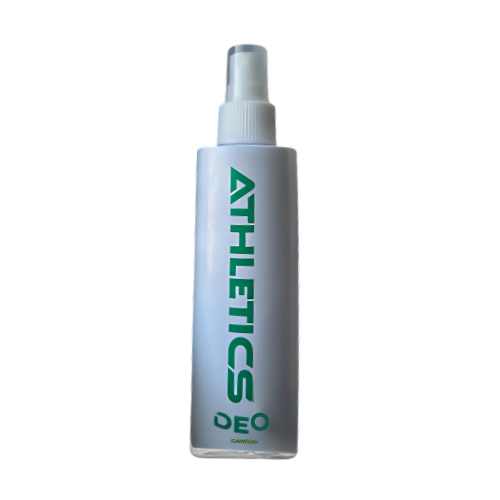
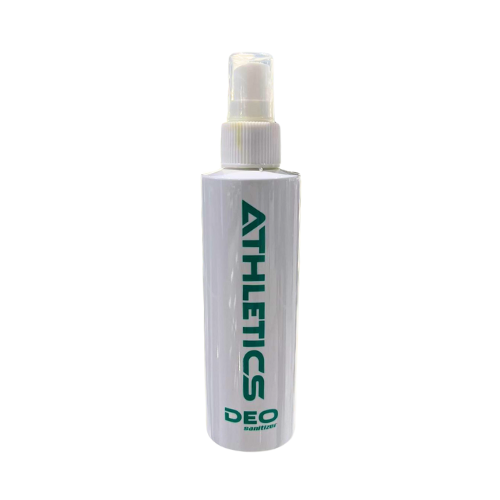
navbar responsive

Changed region(s): [[0.36, 0.09, 0.6, 0.93]]

diff --git a/index.html b/index.html
@@ -247,7 +247,7 @@ padding-top:10%;
 }
 .floating-div img{
 left:0;
-top:20% !important;
+top:3rem !important;
 }
 
 .image-show img {
@@ -272,15 +272,12 @@ margin-top:10%;
             </div>
         </div>
         <div class="grid1 ">
-            <nav class="container">
-                
+            <nav class="container" id="desktop-nav">
                 <a href="index.html" class="logo">
                     <img src="./images/icons/mainlogo.png" alt="IMG-LOGO">
                 </a>
                 <div class="">
                     <ul class="main-menu ">
-                        
-
                         <li>
                             <a class=" menu-item" href="index.html">HOME</a>
                         </li>
@@ -309,9 +306,6 @@ margin-top:10%;
                           <button type="button" class="btn-close text-reset" data-bs-dismiss="offcanvas" aria-label="Close"></button>
                         </div>
                         <div class="offcanvas-body">
-                          <!-- <hr id="dropdown-divider" class="dropdown-divider">
-                          <a id='viewCartLink'class="" href="cart.html">View Cart</a>
-                          <a id='checkoutLink'class="" href="checkout.html">Proceed to Checkout</a> -->
                         </div>
                         <div id="cart-buttons-container" style="">
                             <a href="cart.html" class="btn view-cart-button">View Cart</a>
@@ -319,9 +313,54 @@ margin-top:10%;
                           </div>
                     </div>
                 </div>
-
-
             </nav>
+
+            <nav class="navbar navbar-dark bg-dark fixed-top" id="ipad-mobile-view">
+                <div class="container-fluid">
+                  <button class="navbar-toggler" type="button" data-bs-toggle="offcanvas" data-bs-target="#offcanvasDarkNavbar" aria-controls="offcanvasDarkNavbar" aria-label="Toggle navigation">
+                    <span class="navbar-toggler-icon"></span>
+                  </button>
+                  <div class="offcanvas offcanvas-start text-bg-dark" tabindex="-1" id="offcanvasDarkNavbar" aria-labelledby="offcanvasDarkNavbarLabel">
+                    <div class="offcanvas-body">
+                      <ul class="navbar-nav justify-content-end flex-grow-1 pe-3">
+                        <li class="nav-item">
+                          <a class="nav-link active" aria-current="page" href="index.html">HOME</a>
+                        </li>
+                        <li class="nav-item">
+                          <a class="nav-link" href="shop.html">SHOP</a>
+                        </li>
+                        <li class="nav-item">
+                          <a class="nav-link" href="about.html">ABOUT</a>
+                        </li>
+                        <li class="nav-item">
+                          <a class="nav-link"  href="contact.html">CONTACT</a>
+                        </li>
+                      </ul>
+                    </div>
+                  </div>
+                  <a class="navbar-brand logo" href="./index.html"><img src="./images/icons/mainlogo.png" alt="IMG-LOGO"></a>
+                  <div class="cart">
+                    <button id="cartIcon"  type="button" data-bs-toggle="offcanvas" data-bs-target="#offcanvasRight" aria-controls="offcanvasRight">
+                        <svg xmlns="http://www.w3.org/2000/svg" width="24" height="24" fill="black" class="bi bi-cart3" viewBox="0 0 16 16">
+                            <path d="M0 1.5A.5.5 0 0 1 .5 1H2a.5.5 0 0 1 .485.379L2.89 3H14.5a.5.5 0 0 1 .49.598l-1 5a.5.5 0 0 1-.465.401l-9.397.472L4.415 11H13a.5.5 0 0 1 0 1H4a.5.5 0 0 1-.491-.408L2.01 3.607 1.61 2H.5a.5.5 0 0 1-.5-.5M3.102 4l.84 4.479 9.144-.459L13.89 4zM5 12a2 2 0 1 0 0 4 2 2 0 0 0 0-4m7 0a2 2 0 1 0 0 4 2 2 0 0 0 0-4m-7 1a1 1 0 1 1 0 2 1 1 0 0 1 0-2m7 0a1 1 0 1 1 0 2 1 1 0 0 1 0-2"/>
+                          </svg>
+                        <span class="badge position-absolute top-0 start-100 translate-middle badge rounded-pill " id="cartItemCount" >0</span>
+                    </button>
+                    <div class="offcanvas offcanvas-end " data-bs-scroll="true"  tabindex="-1" id="offcanvasRight" aria-labelledby="offcanvasRightLabel">
+                        <div class="offcanvas-header">
+                          <h5 id="offcanvasRightLabel">Cart</h5>
+                          <button type="button" class="btn-close text-reset" data-bs-dismiss="offcanvas" aria-label="Close"></button>
+                        </div>
+                        <div class="offcanvas-body">
+                        </div>
+                        <div id="cart-buttons-container" style="">
+                            <a href="cart.html" class="btn view-cart-button">View Cart</a>
+                            <a href="checkout.html" class="  checkout-button">Checkout</a>
+                          </div>
+                    </div>
+                </div>
+                </div>
+              </nav>
         </div>
     <section class="slider">
         <div class=" karuseli sticky-top" >
@@ -456,7 +495,7 @@ margin-top:10%;
         </section>
         <div class="wrapper">
             <!-- <h1>Image Grid</h1> -->
-            <div class="image-container ">
+            <div class="image-container container">
                 <div class="horizontal image-item hidden">
                     <img src="./images/main-grid/horizontal.png" alt="">
                     <div class="overlay">
@@ -1044,10 +1083,6 @@ function openModal(item) {
     console.log('How To Use:', item.howto);
     console.log('Caution:', item.careful);
 
-    // Show the modal using vanilla JavaScript (Bootstrap 5)
-    const myModalElement = document.getElementById('myModal');
-    const myModal = new bootstrap.Modal(myModalElement);
-    myModal.show();
   // Add item to cart with specified quantity from modal
   document.querySelector('.add-to-cart-btn').onclick = () => {
       const quantity = parseInt(quantityInput.value);

diff --git a/styles.css b/styles.css
@@ -720,7 +720,6 @@ background:#e5f3fa65
 text-align: left;
     width:60%;
     align-items: flex-start;
-
   }
  
   #prod-description{
@@ -1574,8 +1573,11 @@ a{
     width:100%;
   }
   .cta-container{
-    margin-top:5%;
-    margin-bottom:10%;
+    height: 50vh;
+    display: flex;
+    align-items: center;
+    justify-content: center;
+    flex-direction: column;
   }
   
   .video-div{
@@ -1631,3 +1633,58 @@ footer{
   justify-content: center;
 }
  } 
+
+/* Default scrollbar styling */
+html {
+  --scrollbar-width: 8px; /* Adjust to desired default width */
+}
+
+html::-webkit-scrollbar {
+  width: var(--scrollbar-width);
+}
+
+html::-webkit-scrollbar-track {
+  background: #f1f1f1; /* Default background */
+}
+
+html::-webkit-scrollbar-thumb {
+  background: #888; /* Default thumb */
+  border-radius: 4px;
+}
+
+html::-webkit-scrollbar-thumb:hover {
+  background: #555; /* Hover effect */
+}
+
+/* Hidden scrollbar when modal is open */
+html[style*="overflow-y: hidden"]::-webkit-scrollbar {
+  width: 0; /* Hide scrollbar width */
+}
+
+html[style*="overflow-y: hidden"]::-webkit-scrollbar-thumb {
+  background: transparent; /* Fully hide the thumb */
+}
+/* Default state: show desktop navigation and hide mobile navigation */
+#desktop-nav {
+  display: flex; /* or another value depending on your layout */
+}
+
+#ipad-mobile-view {
+  display: none;
+}
+
+/* For tablet and mobile views (max-width: 768px) */
+@media (max-width: 768px) {
+  #desktop-nav {
+      display: none;
+  }
+
+  #ipad-mobile-view {
+      display: flex; /* or block, depending on your layout */
+  }
+
+  
+  #offcanvasDarkNavbar{
+    width:60%;
+  }
+}

diff --git a/shop.html b/shop.html
@@ -439,7 +439,7 @@ window.products  = [
  },
      {
         id: 3,
-        image: './images/deosanitizier/deosanitizier1-removebg-preview.png',
+        image: './images/deosanitizier/deosanitizier1.png',
         title: 'Deo Sanitizier',
         price: '5',
         description:'Athletics Deo , our top-performance shoe deodorant, designed for active lifestyles. This powerful formula tackles tough odors and keeps your shoes smelling fresh, no matter how intense your workouts are. ',
